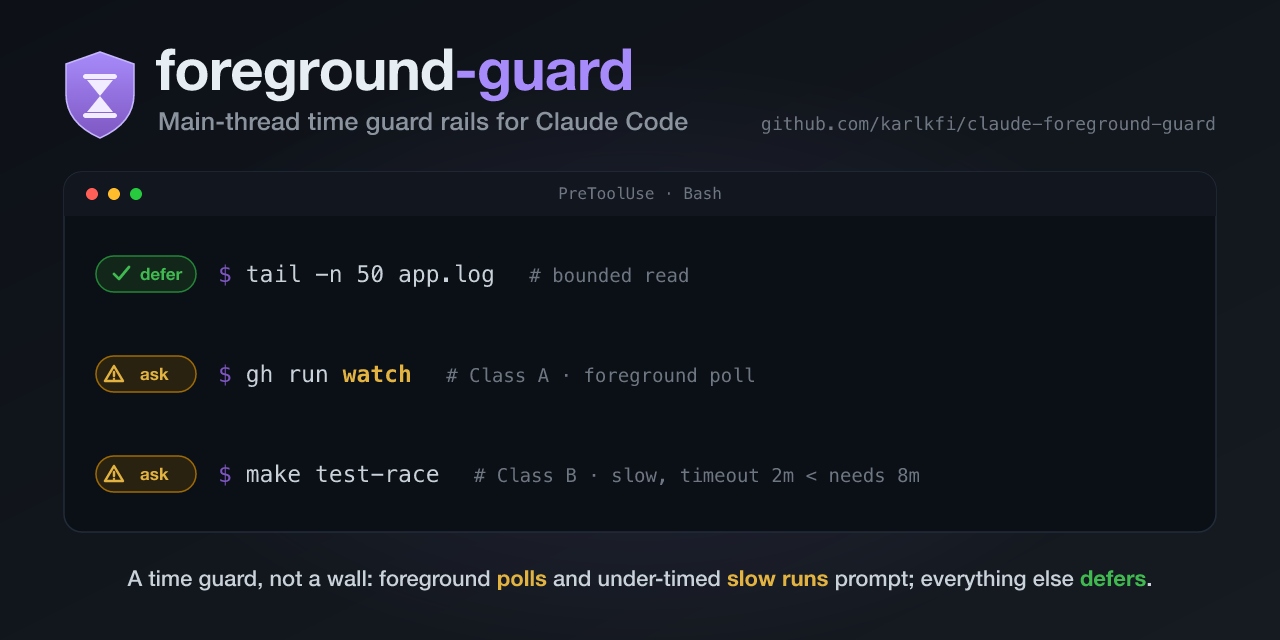
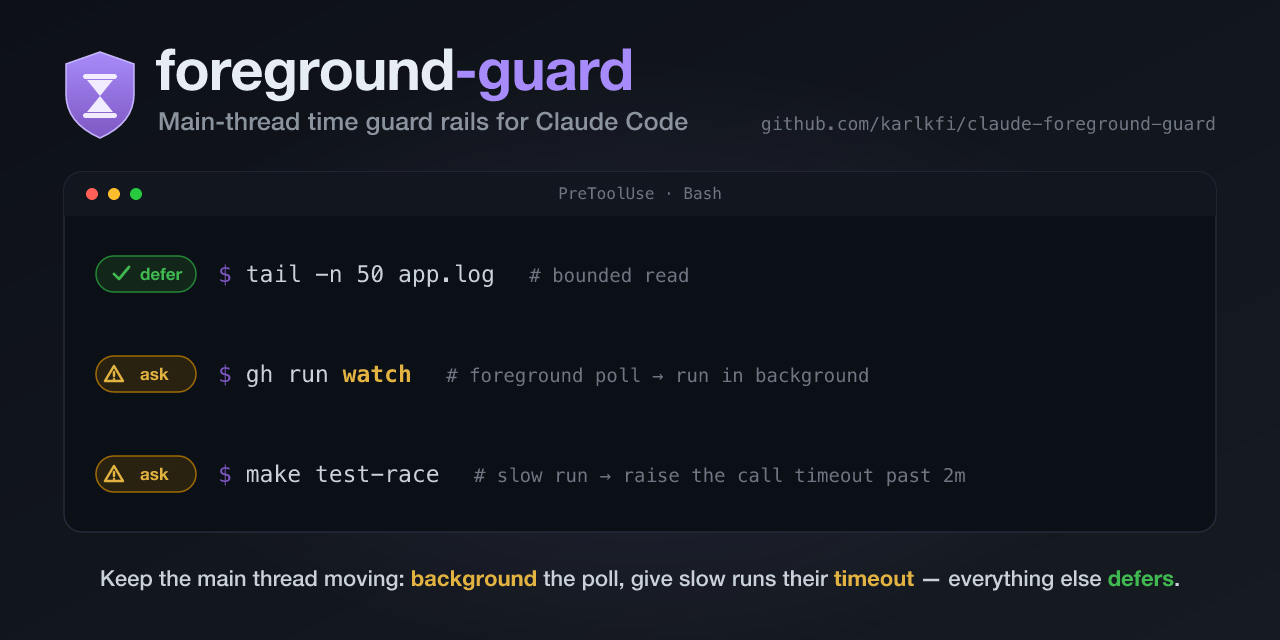
docs(img): show the remedy in the social preview
The preview showed detection (poll/slow-run → ask) but not the fix the
guard actually teaches. Rewrite the ask-row annotations to name the
remedy — foreground poll → run in background; slow run → raise the call
timeout — and lead the caption with "background the poll." Update the
longest-line render gotcha to match the new row-3 text.

Changed region(s): [[0.0625, 0.875, 0.9062, 0.9375], [0.4062, 0.7188, 0.75, 0.75], [0.375, 0.5625, 0.6875, 0.5938]]

diff --git a/docs/development/rendering-images.md b/docs/development/rendering-images.md
@@ -102,10 +102,10 @@ These bite when editing the SVG masters:
   (non-breaking space), not plain spaces — XML collapses leading/interior
   whitespace in text content, so plain spaces render inconsistently or vanish.
 - **Keep the longest terminal line inside the panel.** The social preview's
-  third row (the `make test-race … # Class B …` line) is the widest; at 23px
-  Menlo the panel fits ~72 monospace chars. When editing a command or its
-  annotation, re-render and confirm the last character clears the panel's right
-  border rather than clipping.
+  third row (the `make test-race … # slow run → raise the call timeout …` line)
+  is the widest; at 23px Menlo the panel fits ~72 monospace chars. When editing
+  a command or its annotation, re-render and confirm the last character clears
+  the panel's right border rather than clipping.
 
 ## Publishing the social preview
 